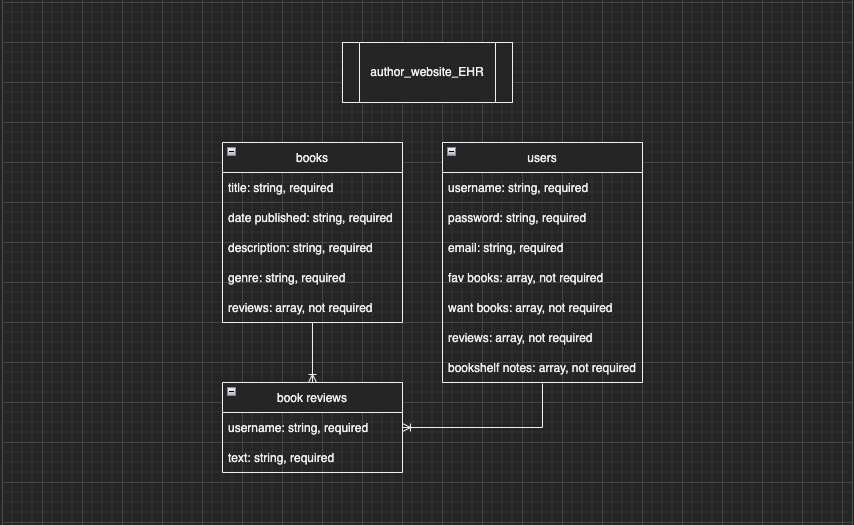
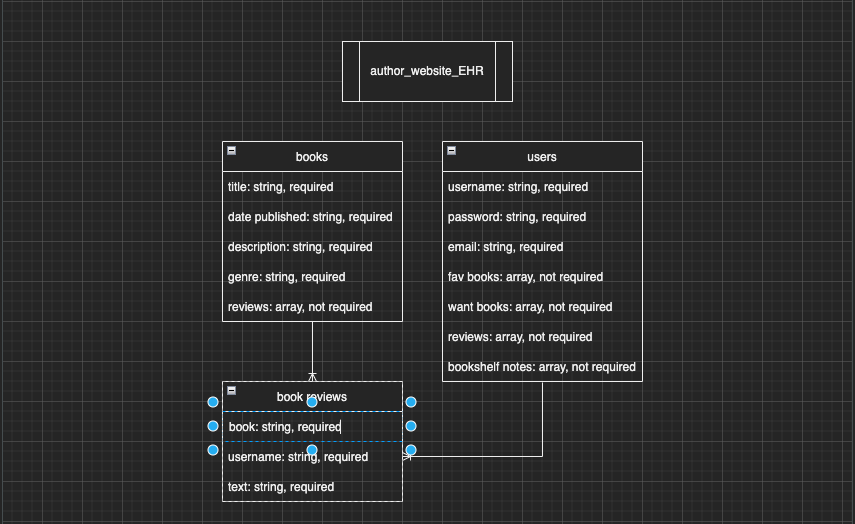
changes to EHR

diff --git a/backend/models/bookReview.js b/backend/models/bookReview.js
@@ -2,8 +2,8 @@ const { Schema } = require('mongoose')
 
 const BookReview = new Schema(
     {
-        book: { type: Schema.Types.ObjectId, ref: 'Book'},
-        username: { type: Schema.Types.ObjectId, ref: 'User' },
+        book: { type: Schema.Types.ObjectId, ref: 'Book', required: true },
+        username: { type: Schema.Types.ObjectId, ref: 'User', required: true },
         text: { type: String, required: true }
     },
     { timestamps: true }
